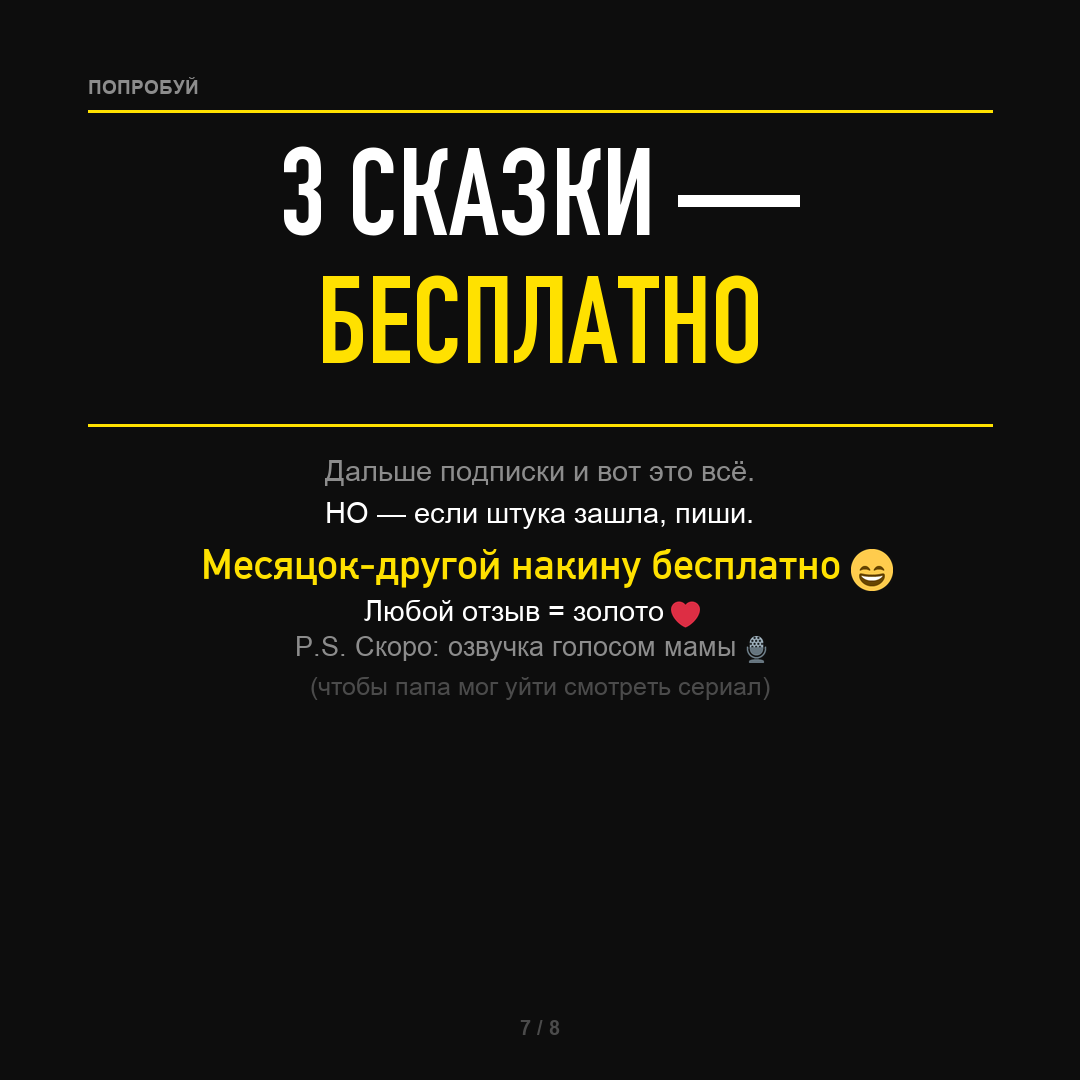
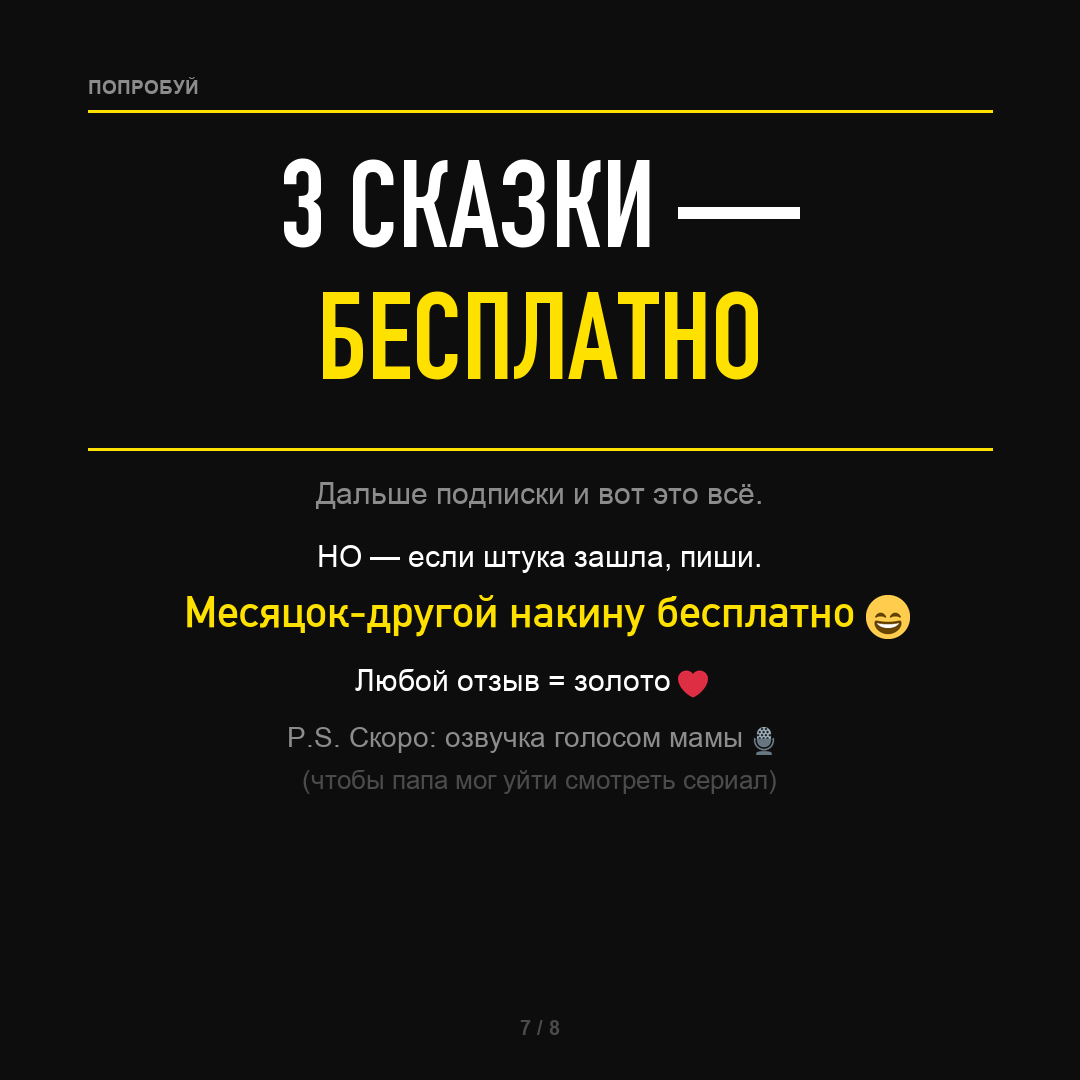
auto-sync 2026-05-23 15:27

diff --git a/marketing/cards/cards v2/generate_v2.py b/marketing/cards/cards v2/generate_v2.py
@@ -119,27 +119,30 @@ def bold(size=30): return f(FONT_BOLD, size)
 # ── Cards ──────────────────────────────────────────────────────────────────────
 
 def card_01():
-    """Cover: ЛЁГ В БОЛЬНИЦУ"""
+    """Cover: НАВАЙБКОДИЛ ДОЧКЕ ТЕРАПИЮ — главный хук, юмор и лёгкость"""
     img, draw = new_card()
 
     label_left(draw, "ПОСТ-БОЛЬНИЧКА")
     hline(draw, 110)
 
-    draw_centered(draw, "ЛЁГ В", 140, big(130), WHITE)
-    draw_centered_emoji(img, draw, "БОЛЬНИЦУ 🏥", 282, big(130), YELLOW)
+    # Главный хук
+    draw_centered(draw, "НАВАЙБКОДИЛ", 152, big(108), YELLOW)
+    draw_centered(draw, "ДОЧКЕ",       268, big(108), WHITE)
+    draw_centered(draw, "ТЕРАПИЮ",     384, big(108), WHITE)
 
-    hline(draw, 448, color=(50, 50, 50))
+    hline(draw, 514)
 
-    fo_med = med(52)
-    draw_centered(draw, "ВСТАЛ С AI-ПРИЛОЖЕНИЕМ", 476, fo_med, WHITE)
-    draw_centered(draw, "ДЛЯ ДОЧКИ", 538, fo_med, WHITE)
+    # Юмор и лёгкость — больничка вскользь
+    lines = [
+        ("Нет, это не бред после наркоза.",     body(30), WHITE),
+        ("(Хотя был повод полежать и подумать 😂)", body(28), GREY),
+        ("",                                    body(16), GREY),
+        ("Продакт нашёл время на Claude Code.", body(30), WHITE),
+        ("Дочка теперь не боится.",             body(30), YELLOW),
+    ]
+    draw_block(img, draw, lines, 546, line_gap=18, use_emoji=True)
 
-    fo_b = body(29)
-    draw_centered(draw, "Нет, это не бред после наркоза.", 628, fo_b, GREY)
-    draw_centered_emoji(img, draw, "(хотя было кайфово 😂)", 672, fo_b, DIM)
-
-    fo_hint = bold(24)
-    draw_centered(draw, "листай →", 742, fo_hint, YELLOW)
+    draw_centered(draw, "листай →", 870, bold(24), YELLOW)
 
     counter(draw, 1)
     save(img, "card_01_cover.png")
@@ -151,22 +154,20 @@ def card_02():
     label_left(draw, "ИСТОРИЯ")
     hline(draw, 110)
 
-    draw_centered(draw, "ТАЕ 5 ЛЕТ", 152, big(140), YELLOW)
+    draw_centered(draw, "ТАЕ 5 ЛЕТ", 172, big(140), YELLOW)
 
-    hline(draw, 330)
+    hline(draw, 360)
 
-    fo_d = med(48)
-    fo_b = body(30)
-
-    # Alternating: yellow → white → grey — no adjacent repeats
     lines = [
-        ("Боялась знакомиться с детьми.", fo_d, WHITE),
-        ("«Мама, не уходи!»",             med(56), YELLOW),
-        ("каждый вечер. 🫠",              fo_b, GREY),
-        ("",                               fo_b, GREY),
-        ("Знакомо? 👇",                   bold(26), DIM),
+        ("Боялась знакомиться с детьми.",  med(48),  WHITE),
+        ("",                               body(16), GREY),
+        ("«Мама, не уходи!»",              med(58),  YELLOW),
+        ("каждый вечер. 🫠",               body(32), GREY),
+        ("",                               body(28), GREY),
+        ("",                               body(28), GREY),
+        ("Знакомо? →",                     bold(28), DIM),
     ]
-    draw_block(img, draw, lines, 368, line_gap=18, use_emoji=True)
+    draw_block(img, draw, lines, 400, line_gap=16, use_emoji=True)
 
     counter(draw, 2)
     save(img, "card_02_taya.png")
@@ -200,29 +201,33 @@ def card_03():
     save(img, "card_03_idea.png")
 
 def card_04():
-    """4 дня. Больница. Ноутбук."""
+    """Claude Code + свободное время = опасная смесь"""
     img, draw = new_card()
 
     label_left(draw, "КАК ЭТО СЛУЧИЛОСЬ")
     hline(draw, 110)
 
-    draw_centered(draw, "4 ДНЯ",     152, big(128), YELLOW)
-    draw_centered(draw, "БОЛЬНИЦА",  288, big(128), WHITE)
-    draw_centered(draw, "НОУТБУК",   424, big(128), WHITE)
+    # Акцент — не больница, а Claude Code и время
+    draw_centered(draw, "CLAUDE CODE",  152, big(108), YELLOW)
+    draw_centered(draw, "+",            268, big(80),  WHITE)
+    draw_centered(draw, "СВОБОДНОЕ",    348, big(108), WHITE)
+    draw_centered(draw, "ВРЕМЯ",        462, big(108), WHITE)
 
-    hline(draw, 562)
+    hline(draw, 584)
 
     lines = [
-        ("Продакт без задач — это опасно 😅",             body(29), GREY),
-        ("Давно смотрел рилсы про Claude Code —",         body(29), WHITE),
-        ("вот наконец нашлось время.",                    body(29), WHITE),
-        ("",                                              body(20), GREY),
-        ("MVP → фича → дизайн → нейронка 🚀",            med(44),  YELLOW),
+        ("Продакт без задач — опасная смесь 😅",      body(29), GREY),
+        ("(особенно если лежишь в больнице)",          body(27), DIM),
+        ("",                                           body(16), GREY),
+        ("Давно хотел попробовать Claude Code —",      body(29), WHITE),
+        ("вот наконец нашлось время.",                 body(29), WHITE),
+        ("",                                           body(16), GREY),
+        ("MVP → фича → дизайн → нейронка 🚀",         med(44),  YELLOW),
     ]
-    draw_block(img, draw, lines, 592, line_gap=14, use_emoji=True)
+    draw_block(img, draw, lines, 612, line_gap=12, use_emoji=True)
 
     counter(draw, 4)
-    save(img, "card_04_hospital.png")
+    save(img, "card_04_vibecode.png")
 
 def card_05():
     """Персонально для твоего ребёнка"""
@@ -289,20 +294,23 @@ def card_07():
     label_left(draw, "ПОПРОБУЙ")
     hline(draw, 110)
 
-    draw_centered(draw, "3 СКАЗКИ —",  148, big(122), WHITE)
-    draw_centered(draw, "БЕСПЛАТНО",   276, big(122), YELLOW)
+    draw_centered(draw, "3 СКАЗКИ —",  160, big(122), WHITE)
+    draw_centered(draw, "БЕСПЛАТНО",   292, big(122), YELLOW)
 
-    hline(draw, 424)
+    hline(draw, 448)
 
     lines = [
-        ("Дальше подписки и вот это всё.",          body(29), GREY),
-        ("НО — если штука зашла, пиши.",            body(29), WHITE),
-        ("Месяцок-другой накину бесплатно 😄",      med(42),  YELLOW),
-        ("Любой отзыв = золото ❤",                 body(29), WHITE),
-        ("P.S. Скоро: озвучка голосом мамы 🎙",   body(27), GREY),
-        ("(чтобы папа мог уйти смотреть сериал)",  body(25), DIM),
+        ("Дальше подписки и вот это всё.",          body(30), GREY),
+        ("",                                        body(10), GREY),
+        ("НО — если штука зашла, пиши.",            body(30), WHITE),
+        ("Месяцок-другой накину бесплатно 😄",      med(44),  YELLOW),
+        ("",                                        body(10), GREY),
+        ("Любой отзыв = золото ❤",                 body(30), WHITE),
+        ("",                                        body(10), GREY),
+        ("P.S. Скоро: озвучка голосом мамы 🎙",   body(28), GREY),
+        ("(чтобы папа мог уйти смотреть сериал)",  body(26), DIM),
     ]
-    draw_block(img, draw, lines, 454, line_gap=16, use_emoji=True)
+    draw_block(img, draw, lines, 476, line_gap=18, use_emoji=True)
 
     counter(draw, 7)
     save(img, "card_07_cta.png")
